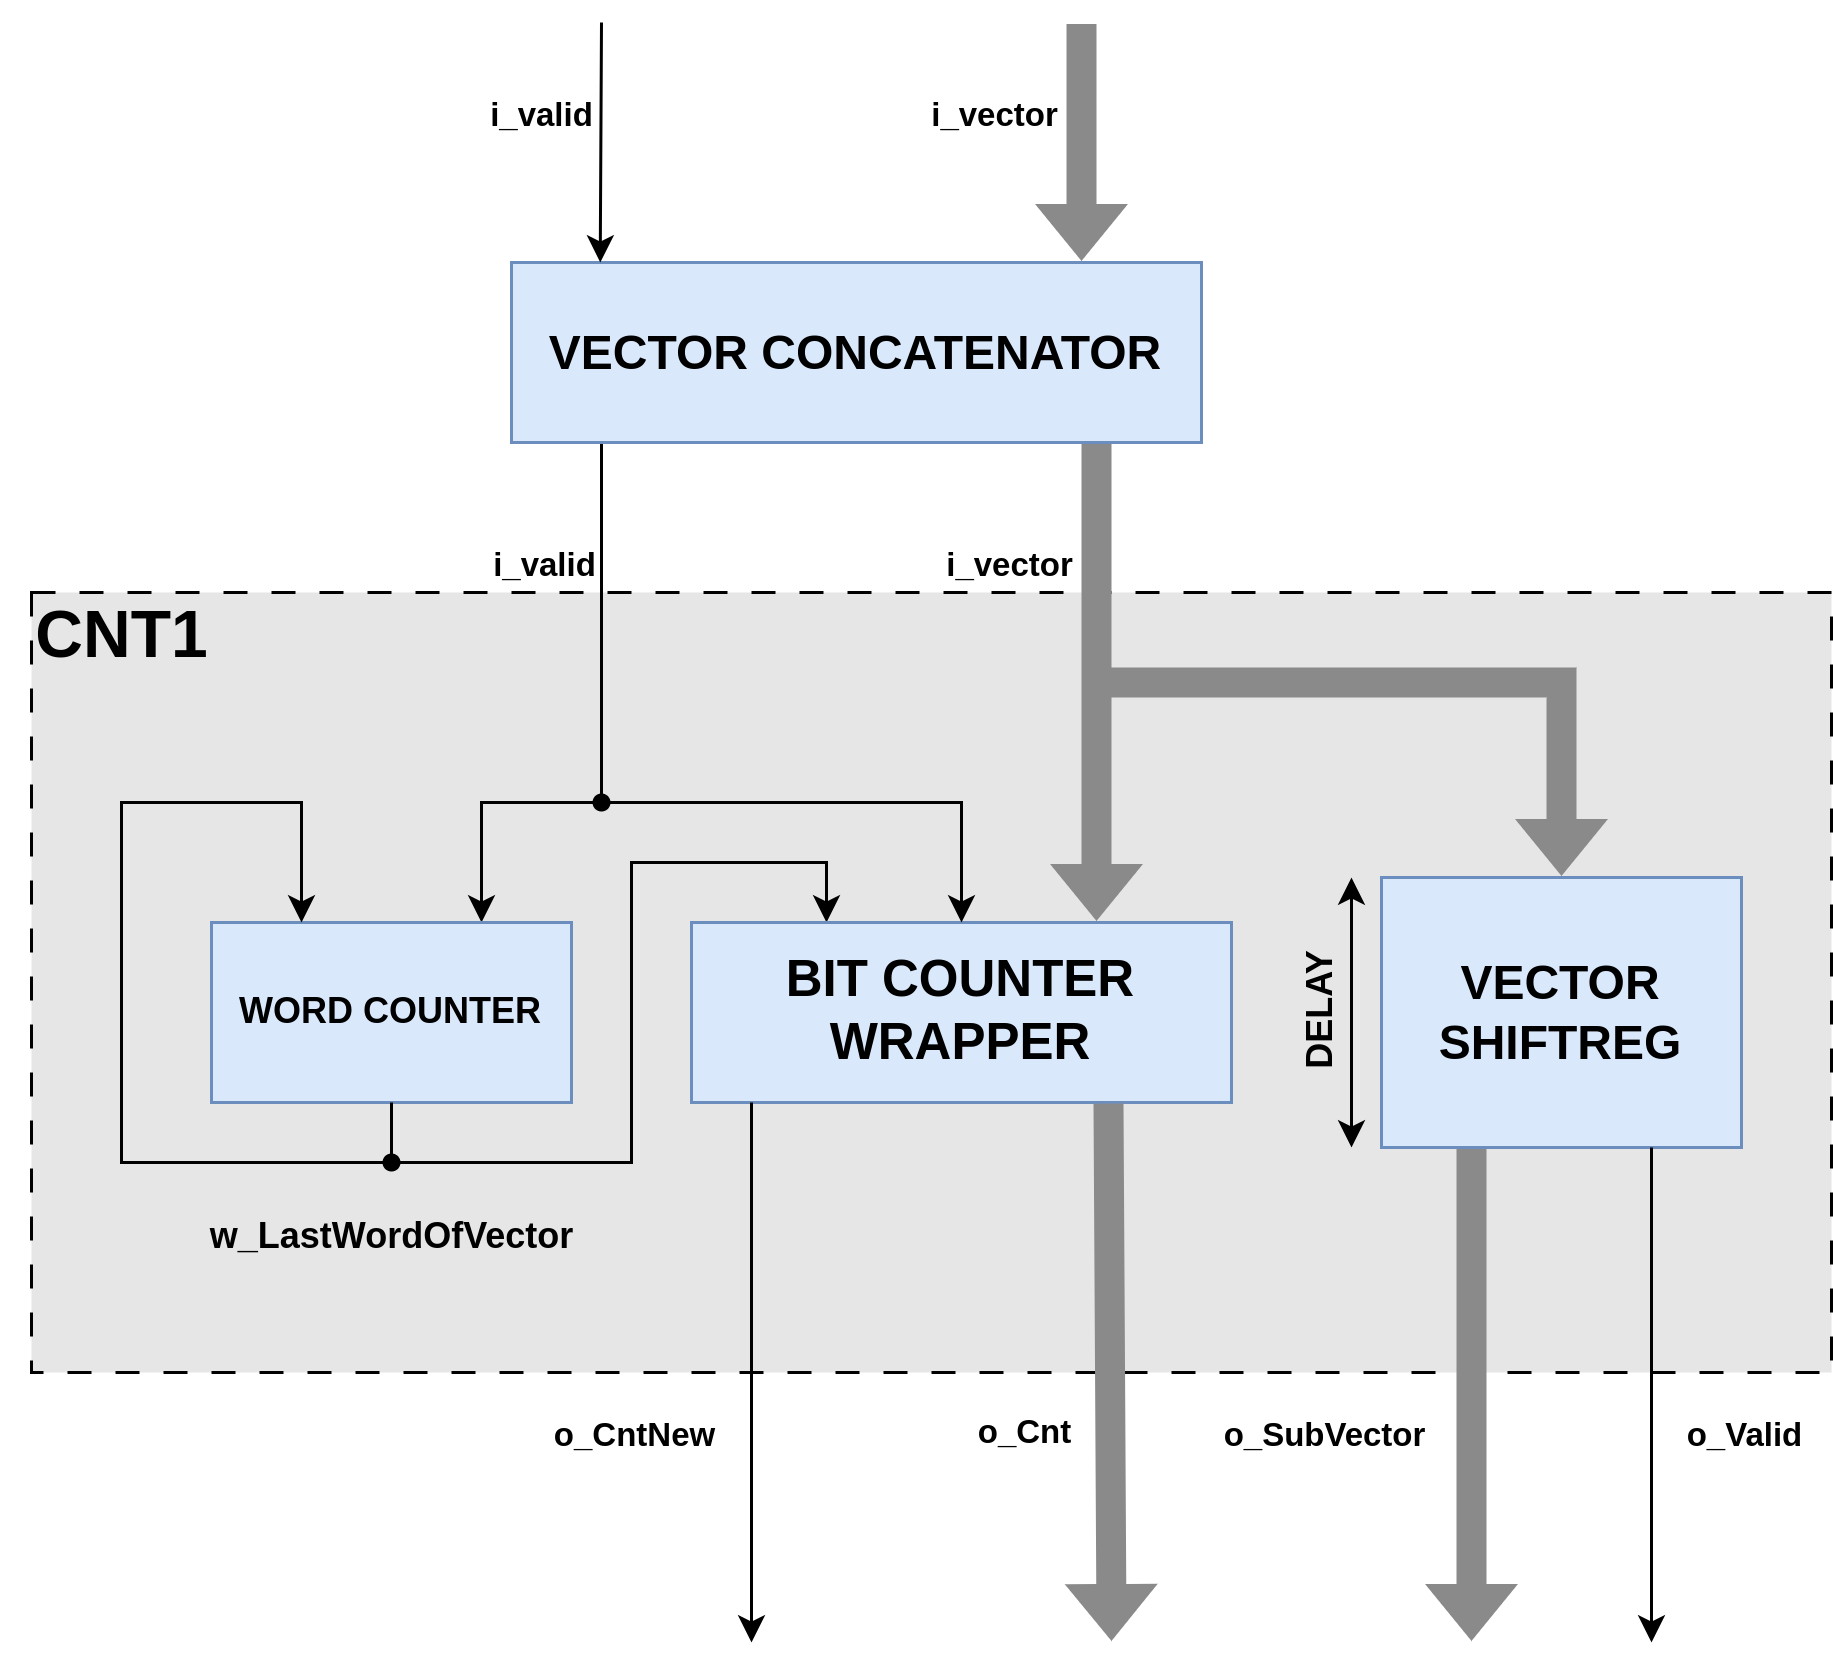
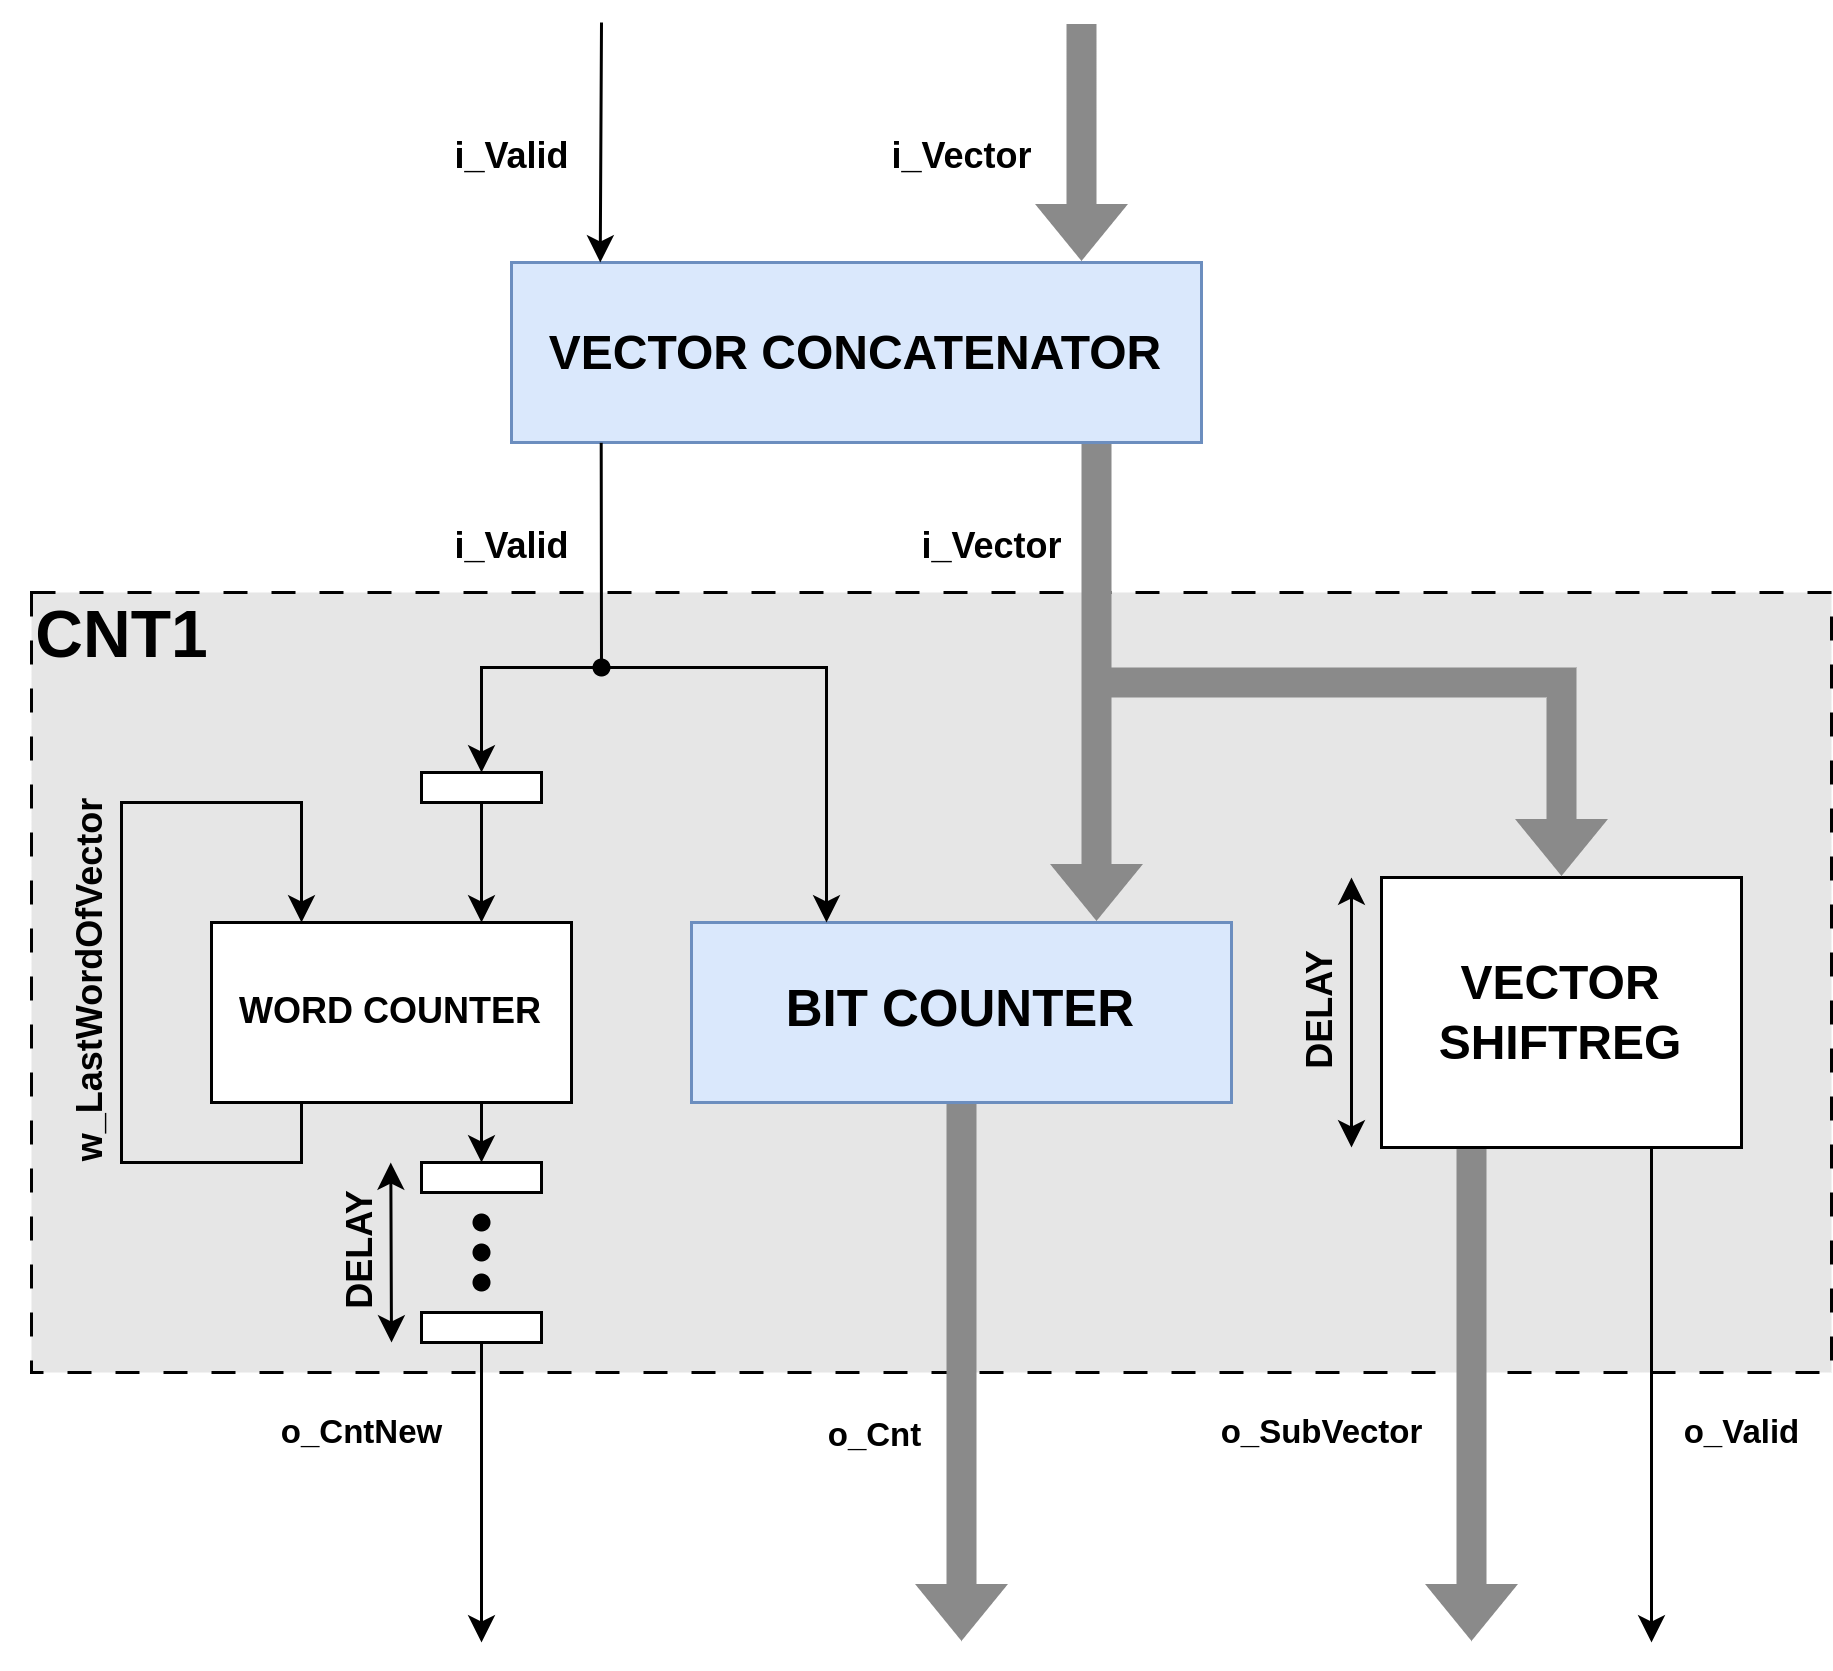
cnt1 documentation update + wave

diff --git a/README.md b/README.md
@@ -104,6 +104,12 @@ Wrapper encapsulating vector weight counting logic. Valid and other control sign
 
 ![cnt1_block](docs/images/cnt1.png)
 
+#### Waveform
+
+Delay depends on i_Vector width. In the current example it is 1 clk, for 128 bits it would be 4 clk (see **bit_cntr**).
+
+![cnt1_wave](docs/images/wave_cnt1.png)
+
 ### Comparator
 
 The comparator module uses a block RAM instance to determine whether the Tanimoto dissimilarity index is over or under a certain threshold, without actually calculating the index. Division is avoided, by pre-loading potential division results to **u_result_ram**, which is indexed by the binary weight of the A&B vector. The output of the RAM is then compared against the sum of the binary weights of vectors A and B. When the sum of the weights is greater than the threshold read from the RAM, the output of the module is high.

diff --git a/docs/src_markdown/DOCS_HEADER.md b/docs/src_markdown/DOCS_HEADER.md
@@ -12,7 +12,7 @@ Feel free to reach out to me on GitHub, or send an email to jozsef.mozer@edu.bme
   - [Bit Adder](#bit-adder)
   - [Bit Counter](#bit-counter)
   - [Bit Counter Wrapper](#bit-counter-wrapper)
-  - [CNT1](#CNT1)
+  - [CNT1](#cnt1)
   - [Comparator](#comparator)
   - [Vector Concatenator](#vector-concatenator)
   - [Top Level](#top-level)

diff --git a/docs/src_markdown/CNT1.md b/docs/src_markdown/CNT1.md
@@ -20,3 +20,9 @@ Wrapper encapsulating vector weight counting logic. Valid and other control sign
 #### Block diagram
 
 ![cnt1_block](docs/images/cnt1.png)
+
+#### Waveform
+
+Delay depends on i_Vector width. In the current example it is 1 clk, for 128 bits it would be 4 clk (see **bit_cntr**).
+
+![cnt1_wave](docs/images/wave_cnt1.png)
